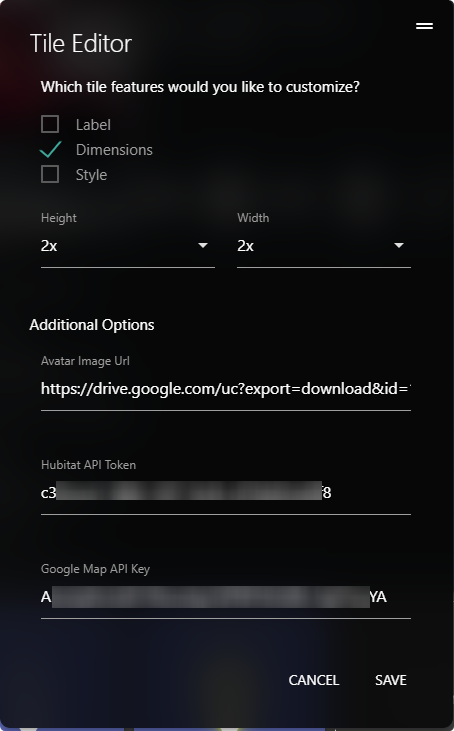
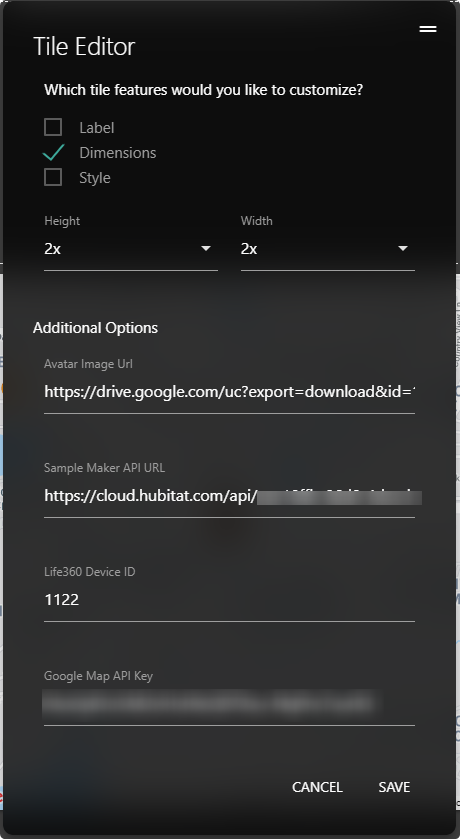
Updated images and instructions

diff --git a/Google Map Demo/README.md b/Google Map Demo/README.md
@@ -33,18 +33,21 @@ Follow the steps below to enable Maker API in Hubitat admin page.
 * Go to Developer Tools in SharpTools user dropdown
 * Create a custom tile
     * Select "HTML" as Type
-    * Add three "Settings" with "string" type
-        * avatarUrl (the map maker image to be displaed in the map)
-        * heToken (The Access Token in any of the Maker API example urls created in the previous step)
-        * googleApiKey (Google Map API created in the first step)
-    ![settings](/Google%20Map%20Demo/assets/tile_settings.png)
+    * Create four settings (String type)
+        * Avatar Image Url (the image you want to display in the map)
+        * Sample Maker API URL (Can be found in the Hubitat Maker API page.)
+          ![smaple_url](/Google%20Map%20Demo/assets/sample_cloud_url.png)
+        * Life360 Device Id (Hubitat device id for Life360. Can be found by going to [SharpTools User Page](https://sharptools.io/user), tap `...` next to the Hubitat location in the Authorized Locations section, select the Life360 device, and toggle the Advanced option in the device page. )
+          ![settings](/Google%20Map%20Demo/assets/find_device_id.png)
+        * Google Map API Key (Google Map API created in the first step)
+          ![settings](/Google%20Map%20Demo/assets/tile_settings.png)
     * Set default dimensons to 2x2
     * Copy & paste the code from [here](/Google%20Map%20Demo/source.html)
 
 ### Deploy Custom Tile
 * Go to the desired dashboard, Edit, and Add Item. Tap "Custom Tile" in the Other section and add this custom tile.
 
-* Edit the tile and fill-in the Avatar Image Url, Hubitat API Token and Google MAP API Key from previous steps. 
+* Edit the tile and fill-in the Avatar Image Url, Hubitat Maker API sample URL, Life360 device id from Hubitat and Google MAP API Key from previous steps. 
 
   ![Edit custom tile](/Google%20Map%20Demo/assets/tile_editor.png)
 
